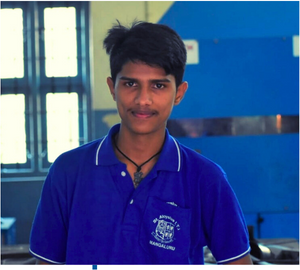
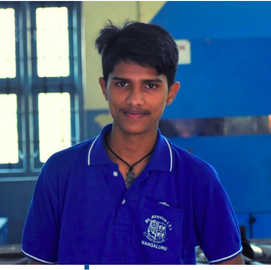
Several changes - added blogs - cropped team images - minor changes in footer

diff --git a/src/components/pages/events/dirts2023.jsx b/src/components/pages/events/dirts2023.jsx
@@ -1,3 +1,129 @@
-export default function Dirts2023Event () {
-    return <></>
+import './event.css'
+
+export default function Dirts2023Event() {
+	return (
+		<div className="eventpage-container">
+			<div className="nav-placeholder"></div>
+			<div className="dedication eventpage">
+				<h1>EVENT</h1>
+				<h2>
+					A Glimpse into the Future of Disaster Resilience: The SEARCH
+					Initiative
+				</h2>
+				<div className="details">
+					<h3 className="underline">Date:</h3>
+					<h3>December 5 to December 7, 2023</h3>
+					<h3 className="underline">Location:</h3>
+					<h3>
+						National Institute of Technology Karnataka (NITK),
+						Surathkal
+					</h3>
+					<h3 className="underline">Time:</h3>
+					<h3>10 am to 5:30 pm</h3>
+				</div>
+
+				<img src="/images/events/dirts/001.jpg" alt="" />
+
+				<h4>
+					“Disaster Resilience through SEARCH (System for Emergency
+					Assistance, 
+					<br />
+					Response and Communication Hub)” a 3 day
+					workshop - training programme.
+				</h4>
+
+				<p>
+					The recent conclusion of the “Disaster Resilience through
+					SEARCH (System for Emergency Assistance, Response and
+					Communication Hub)” initiative marked a significant
+					milestone in the field of disaster management. This
+					collaborative effort by the Resilient Infrastructure
+					Division (RID) of the National Institute of Disaster
+					Management (NIDM) and the Centre for System Design at the
+					National Institute of Technology Karnataka (NITK),
+					Surathkal, provided participants with a wealth of insights
+					and skills in cutting-edge disaster response technologies.
+				</p>
+
+				<div className="images">
+					<img src="/images/events/dirts/002.jpg" alt="" />
+					<img src="/images/events/dirts/003.jpg" alt="" />
+				</div>
+
+				<p>
+					The program featured insightful sessions led by renowned
+					experts in disaster management. These sessions covered a
+					wide range of topics, including GIS applications,
+					nature-based solutions in landslide mitigation, and the role
+					of autonomous systems in disaster management.
+				</p>
+
+				<p>
+					Participants were offered hands-on experiences in drone
+					applications in medical aid, innovative engineering
+					solutions for hazard mitigation, and hydraulics modelling
+					for disaster resilience. These practical sessions allowed
+					participants to apply their theoretical knowledge in
+					real-world scenarios.
+				</p>
+
+				<h3>The SEARCH Site Visit: A Firsthand Experience</h3>
+
+				<div className="images">
+					<img src="/images/events/dirts/005.jpg" alt="" />
+					<img src="/images/events/dirts/006.jpg" alt="" />
+				</div>
+
+				<p>
+					The highlight of the program was the site visit to the
+					SEARCH facility. Participants embarked on a journey through
+					the facility, witnessing state-of-the-art equipment and
+					technologies in action. From autonomous aerial and marine
+					vehicles to robust communication infrastructure, the site
+					visit showcased the comprehensive capabilities of SEARCH in
+					emergency response and communication.
+				</p>
+
+				<p>
+					One of the standout features of the site visit was the
+					hands-on session on HAM Radio and emergency and rescue
+					operations facilitated by drone technology. Participants
+					actively engaged in simulated rescue scenarios, gaining
+					practical experience in utilizing drones for surveillance
+					and response in disaster situations.
+				</p>
+
+				<p>
+					Throughout the site visit, industry experts provided
+					valuable insights and demonstrations on the application of
+					cutting-edge technologies in disaster response. Participants
+					gained valuable knowledge from seasoned professionals at the
+					forefront of disaster management innovation.
+				</p>
+
+				<div className="images">
+					<img src="/images/events/dirts/004.jpg" alt="" />
+					<img src="/images/events/dirts/007.jpg" alt="" />
+				</div>
+
+				<p>
+					The SEARCH site visit left participants inspired and
+					equipped with practical skills and knowledge to enhance
+					disaster resilience in their respective fields. The
+					immersive experience underscored the importance of
+					continuous learning and collaboration in advancing disaster
+					management practices.
+				</p>
+
+				<p>
+					As we continue to explore the possibilities of technology in
+					disaster resilience, we remain committed to advancing the
+					field and building a safer, more resilient future for all.
+					Stay tuned for more updates and upcoming events on the
+					SEARCH website!
+				</p>
+				<img src="/images/events/dirts/010.jpg" alt="" />
+			</div>
+		</div>
+	)
 }

diff --git a/src/components/pages/events/iinventiv.jsx b/src/components/pages/events/iinventiv.jsx
@@ -1,0 +1,55 @@
+import './event.css'
+
+export default function IinventivEvent() {
+	return (
+		<div className="eventpage-container">
+			<div className="nav-placeholder"></div>
+			<div className="dedication eventpage">
+				<h1>EVENT</h1>
+				<h2>IInvenTiv-2024: SEARCH's Trailblazing Impact</h2>
+				<div className="details">
+					<h3 className="underline">Location:</h3>
+					<h3>IIT Hyderabad</h3>
+				</div>
+
+				<img src="/images/events/iinventiv/001.jpeg" alt="" />
+
+				<p>
+					SEARCH made a significant impact at IInvenTiv-2024, India's
+					largest R&D Innovation Fair from Higher Education
+					Institutes. The 2nd edition of the event was hosted by IIT
+					Hyderabad on 19th-20th January 2024, Inaugurated by Union
+					Education Minister Shri Dharmendra Pradhan.
+				</p>
+
+				<p>
+					SEARCH showcased a blend of autonomous marine and aerial
+					vehicles, along with advanced communication technologies.
+					This display of innovation captivated attendees and sparked
+					discussions on the future of disaster response and
+					environmental conservation.
+				</p>
+
+				<p>
+					SEARCH also fostered collaboration among diverse
+					stakeholders, creating a platform for dialogue and
+					partnership. Its real-world applications, ranging from
+					disaster response to environmental monitoring, demonstrated
+					its versatility and potential to address various challenges.
+				</p>
+
+				<div className="images">
+					<img src="/images/events/iinventiv/002.jpeg" alt="" />
+					<img src="/images/events/iinventiv/003.jpeg" alt="" />
+				</div>
+
+				<p>
+					Post-IInvenTiv-2024, the team, led by Dr. Pruthviraj U, is
+					committed to leveraging the insights gained to drive
+					positive change. Stay tuned for updates on SEARCH's journey
+					towards a safer, more resilient future.
+				</p>
+			</div>
+		</div>
+	)
+}

diff --git a/src/App.jsx b/src/App.jsx
@@ -18,6 +18,7 @@ import { useLocation } from 'react-router-dom';
 import DedicationEvent from "./components/pages/events/dedication";
 import CoastalPoliceEvent from "./components/pages/events/coastalpolice";
 import Dirts2023Event from "./components/pages/events/dirts2023";
+import IinventivEvent from "./components/pages/events/iinventiv";
 
 function ScrollToTop() {
   const { pathname } = useLocation();
@@ -60,6 +61,7 @@ function App() {
                 <Route path="/events/dedication" element={<DedicationEvent />} />
                 <Route path="/events/coastalpolice" element={<CoastalPoliceEvent />} />
                 <Route path="/events/dirts2023" element={<Dirts2023Event />} />
+                <Route path="/events/iinventiv" element={<IinventivEvent />} />
             </Routes>
             <Footer />
         </Router>

diff --git a/src/components/Footer/index.jsx b/src/components/Footer/index.jsx
@@ -89,7 +89,8 @@ const Footer = () => {
 
 export default Footer;*/
 import React from "react";
-import {FaInstagram,FaYoutube, FaLinkedin, } from "react-icons/fa";
+import {FaInstagram,FaYoutube, FaLinkedin, FaPhone, FaPhoneAlt } from "react-icons/fa";
+import { MdMail } from "react-icons/md"
 import logo from "../../images/logo.png";
 import {
 Box,
@@ -146,8 +147,8 @@ return (
 			<Heading>Contact Us</Heading>
 			<FooterLink href="https://www.nitk.ac.in/">NITK</FooterLink>
 			<FooterLink href="https://csd.nitk.ac.in/">CSD</FooterLink>
-			<FooterLink >Email-: search@nitk.edu.in</FooterLink>
-			<FooterLink >Phone No -: 9972797225 </FooterLink>
+			<FooterLink><MdMail />search@nitk.edu.in</FooterLink>
+			<FooterLink><FaPhoneAlt />9972797225 </FooterLink>
 		</Column>
 		<Column>
 			<Heading>Social Media</Heading>

diff --git a/src/components/pages/index.jsx b/src/components/pages/index.jsx
@@ -19,7 +19,7 @@ const eventsData = [
     {
       title: "DiRTS 2023",
       description: "A 3-Day Disaster Resilience Workshop",
-      learnMoreLink: "https://search.nitk.ac.in",
+      learnMoreLink: "/events/dirts2023",
       image: image2, 
     },
     {
@@ -27,6 +27,12 @@ const eventsData = [
       description: "A Hands-on Session",
       learnMoreLink: "/events/coastalpolice",
       image: image3, 
+    },
+    {
+      title: "IInvenTiv 2024",
+      description: "SEARCH's Trailblazing Impact",
+      learnMoreLink: "/events/iinventiv",
+      image: "/images/events/iinventiv/001.jpeg", 
     },
   ];
 

diff --git a/src/components/pages/events/event.css b/src/components/pages/events/event.css
@@ -10,6 +10,7 @@
 
 .eventpage h1 {
     color: var(--accent-dark);
+    margin-bottom: 10px;
 }
 
 .eventpage h2 {
@@ -31,6 +32,12 @@
 
 .eventpage .details h3.underline {
     text-decoration: underline;
+}
+
+
+.eventpage h4 {
+    font-weight: 600;
+    text-align: center;
 }
 
 .eventpage .images {

diff --git a/src/components/Footer/FooterElements.jsx b/src/components/Footer/FooterElements.jsx
@@ -156,10 +156,20 @@ color: #fff;
 margin-bottom: 20px;
 font-size: 18px;
 text-decoration: none;
+display: flex;
+align-items: middle;
+gap: 5px;
+
+cursor: pointer;
 
 &:hover {
 	color: green;
 	transition: 200ms ease-in;
+}
+
+svg {
+    flex-shrink: 0;
+    height: 100%;
 }
 `;
 

diff --git a/src/components/index/gallery/gallery.css b/src/components/index/gallery/gallery.css
@@ -23,8 +23,10 @@
 #gallery #images #filmstrip {
     background-image: url(../../../images/film.png);    
     background-size: contain;
+    background-repeat: repeat;
     height: 20px;
     width: 500%;
+    max-width: initial;
 }
 
 #gallery #images #inner {

diff --git a/src/components/pages/team.css b/src/components/pages/team.css
@@ -119,7 +119,6 @@
     max-width: 95vw;
 
     display: flex;
-    justify-content: center;
     align-items: center;
     flex-direction: column;
     /* cursor: pointer; */
